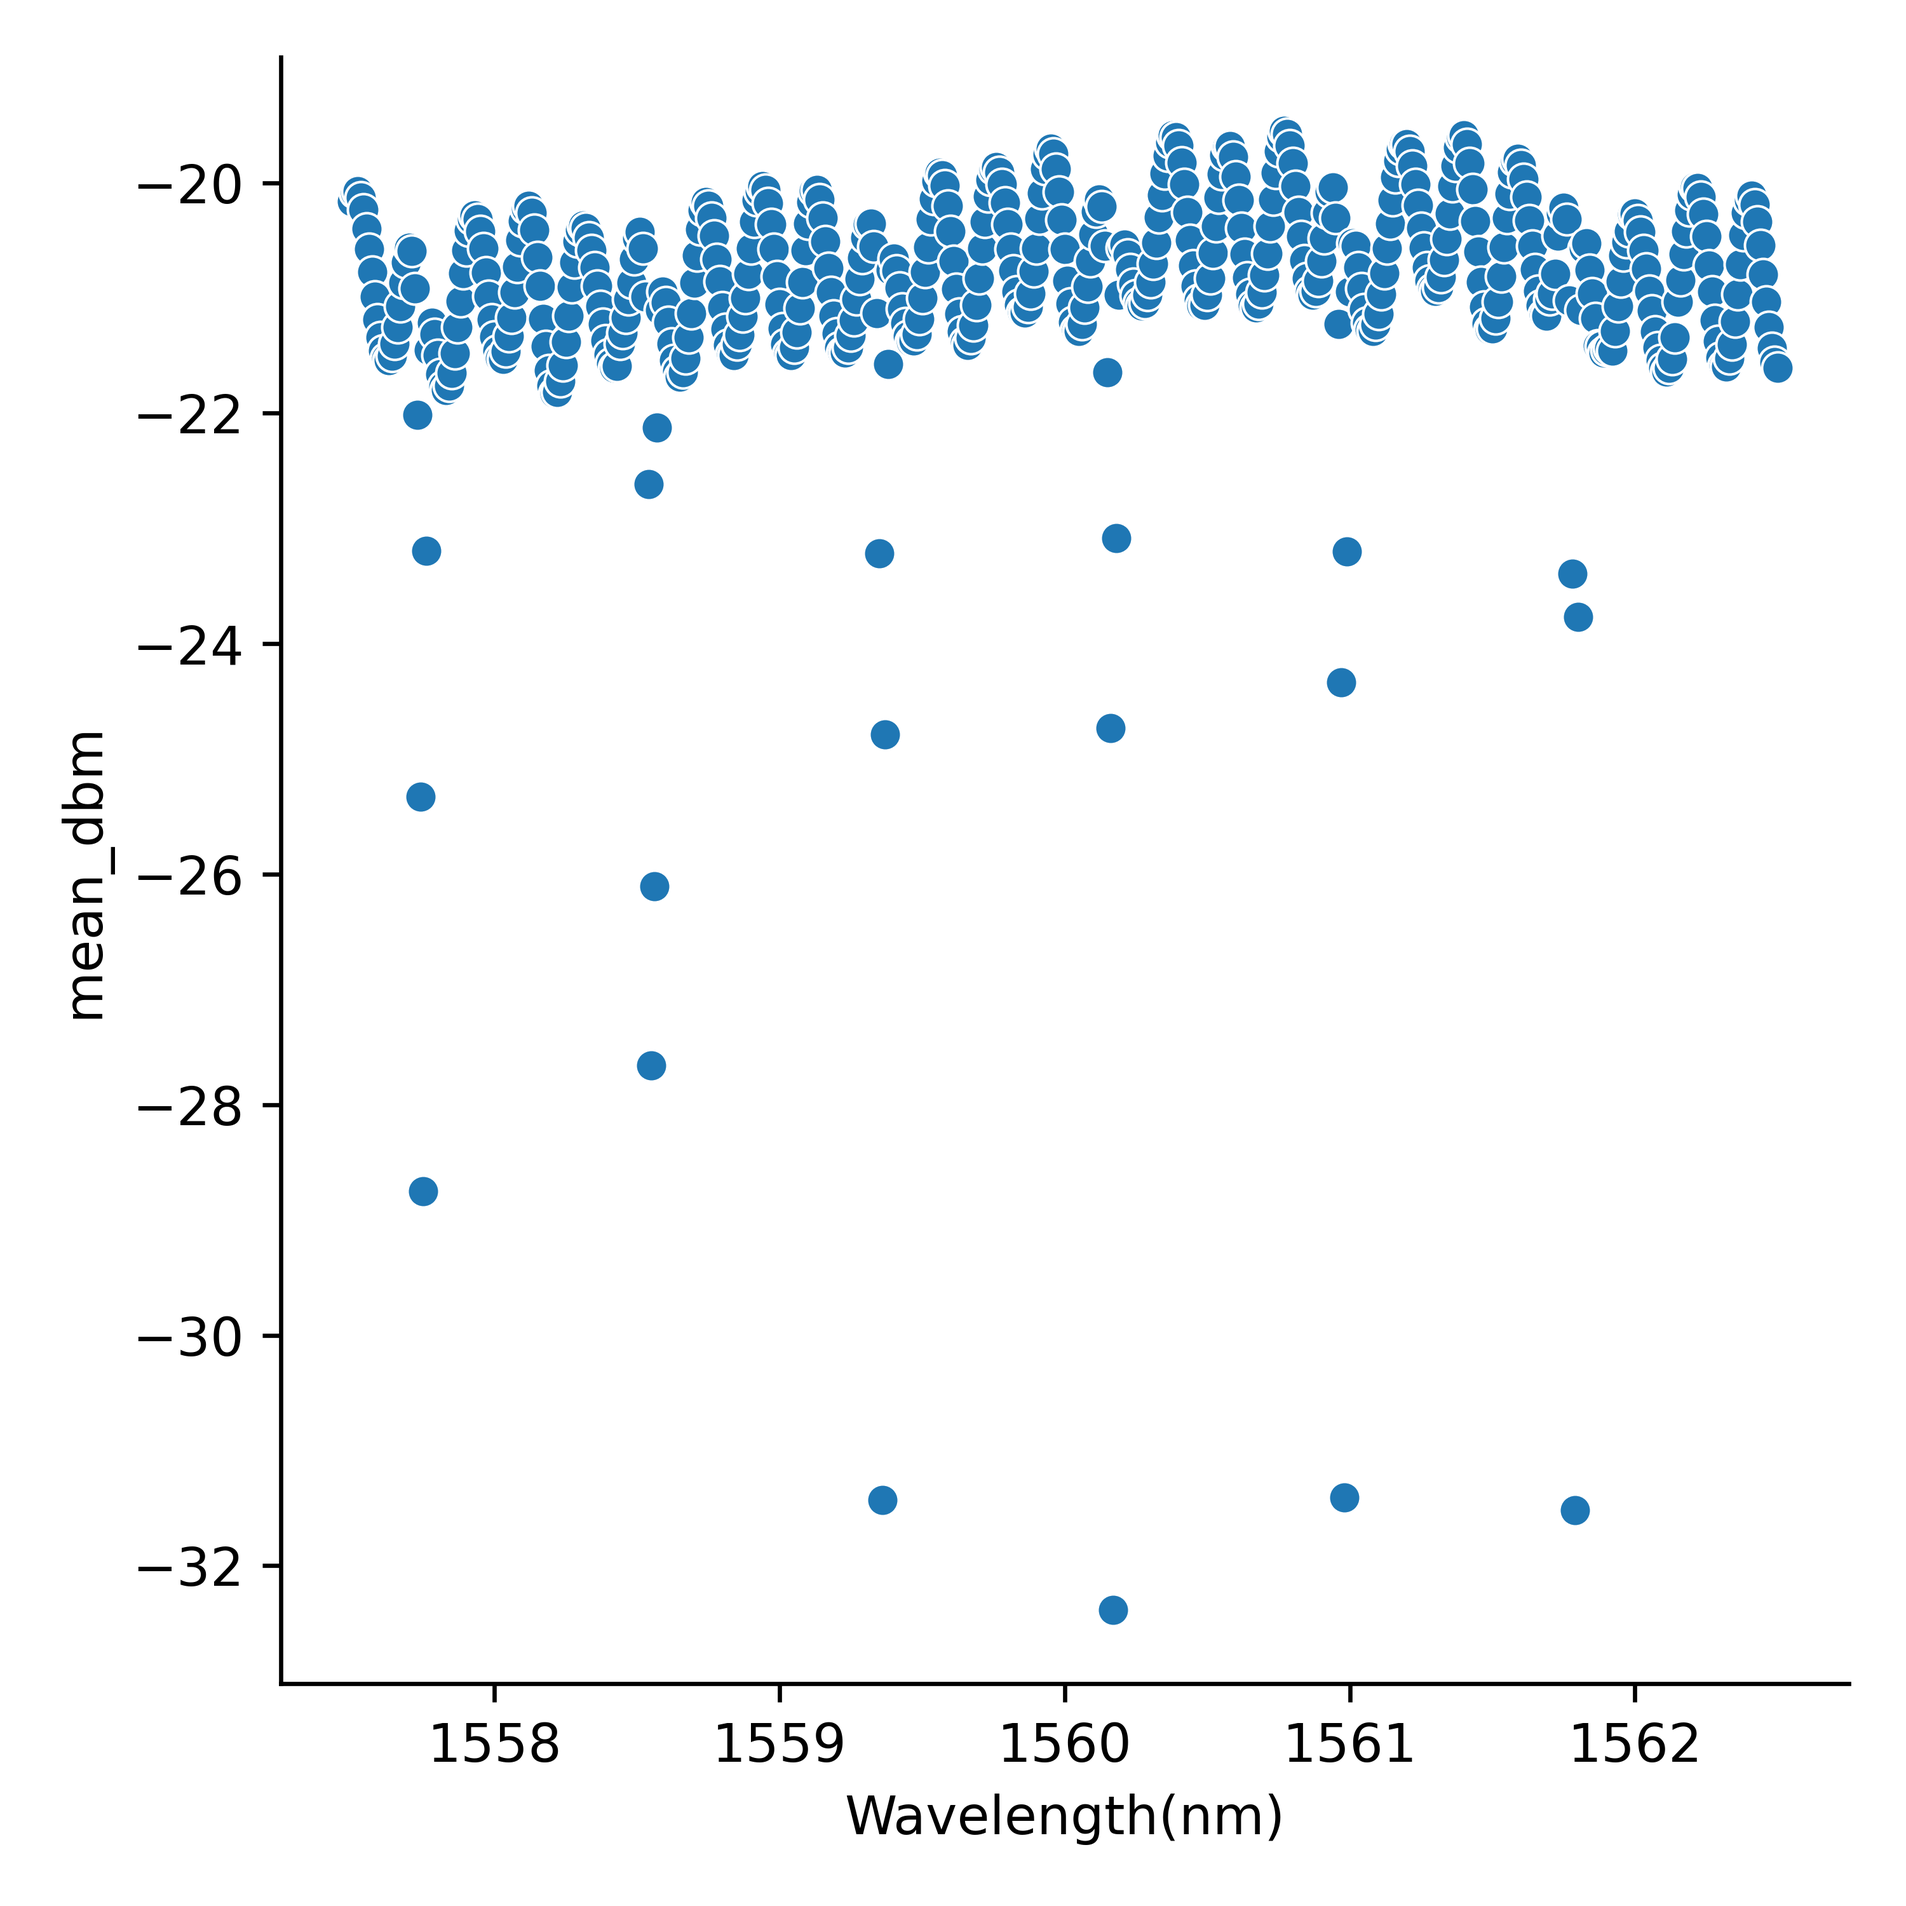
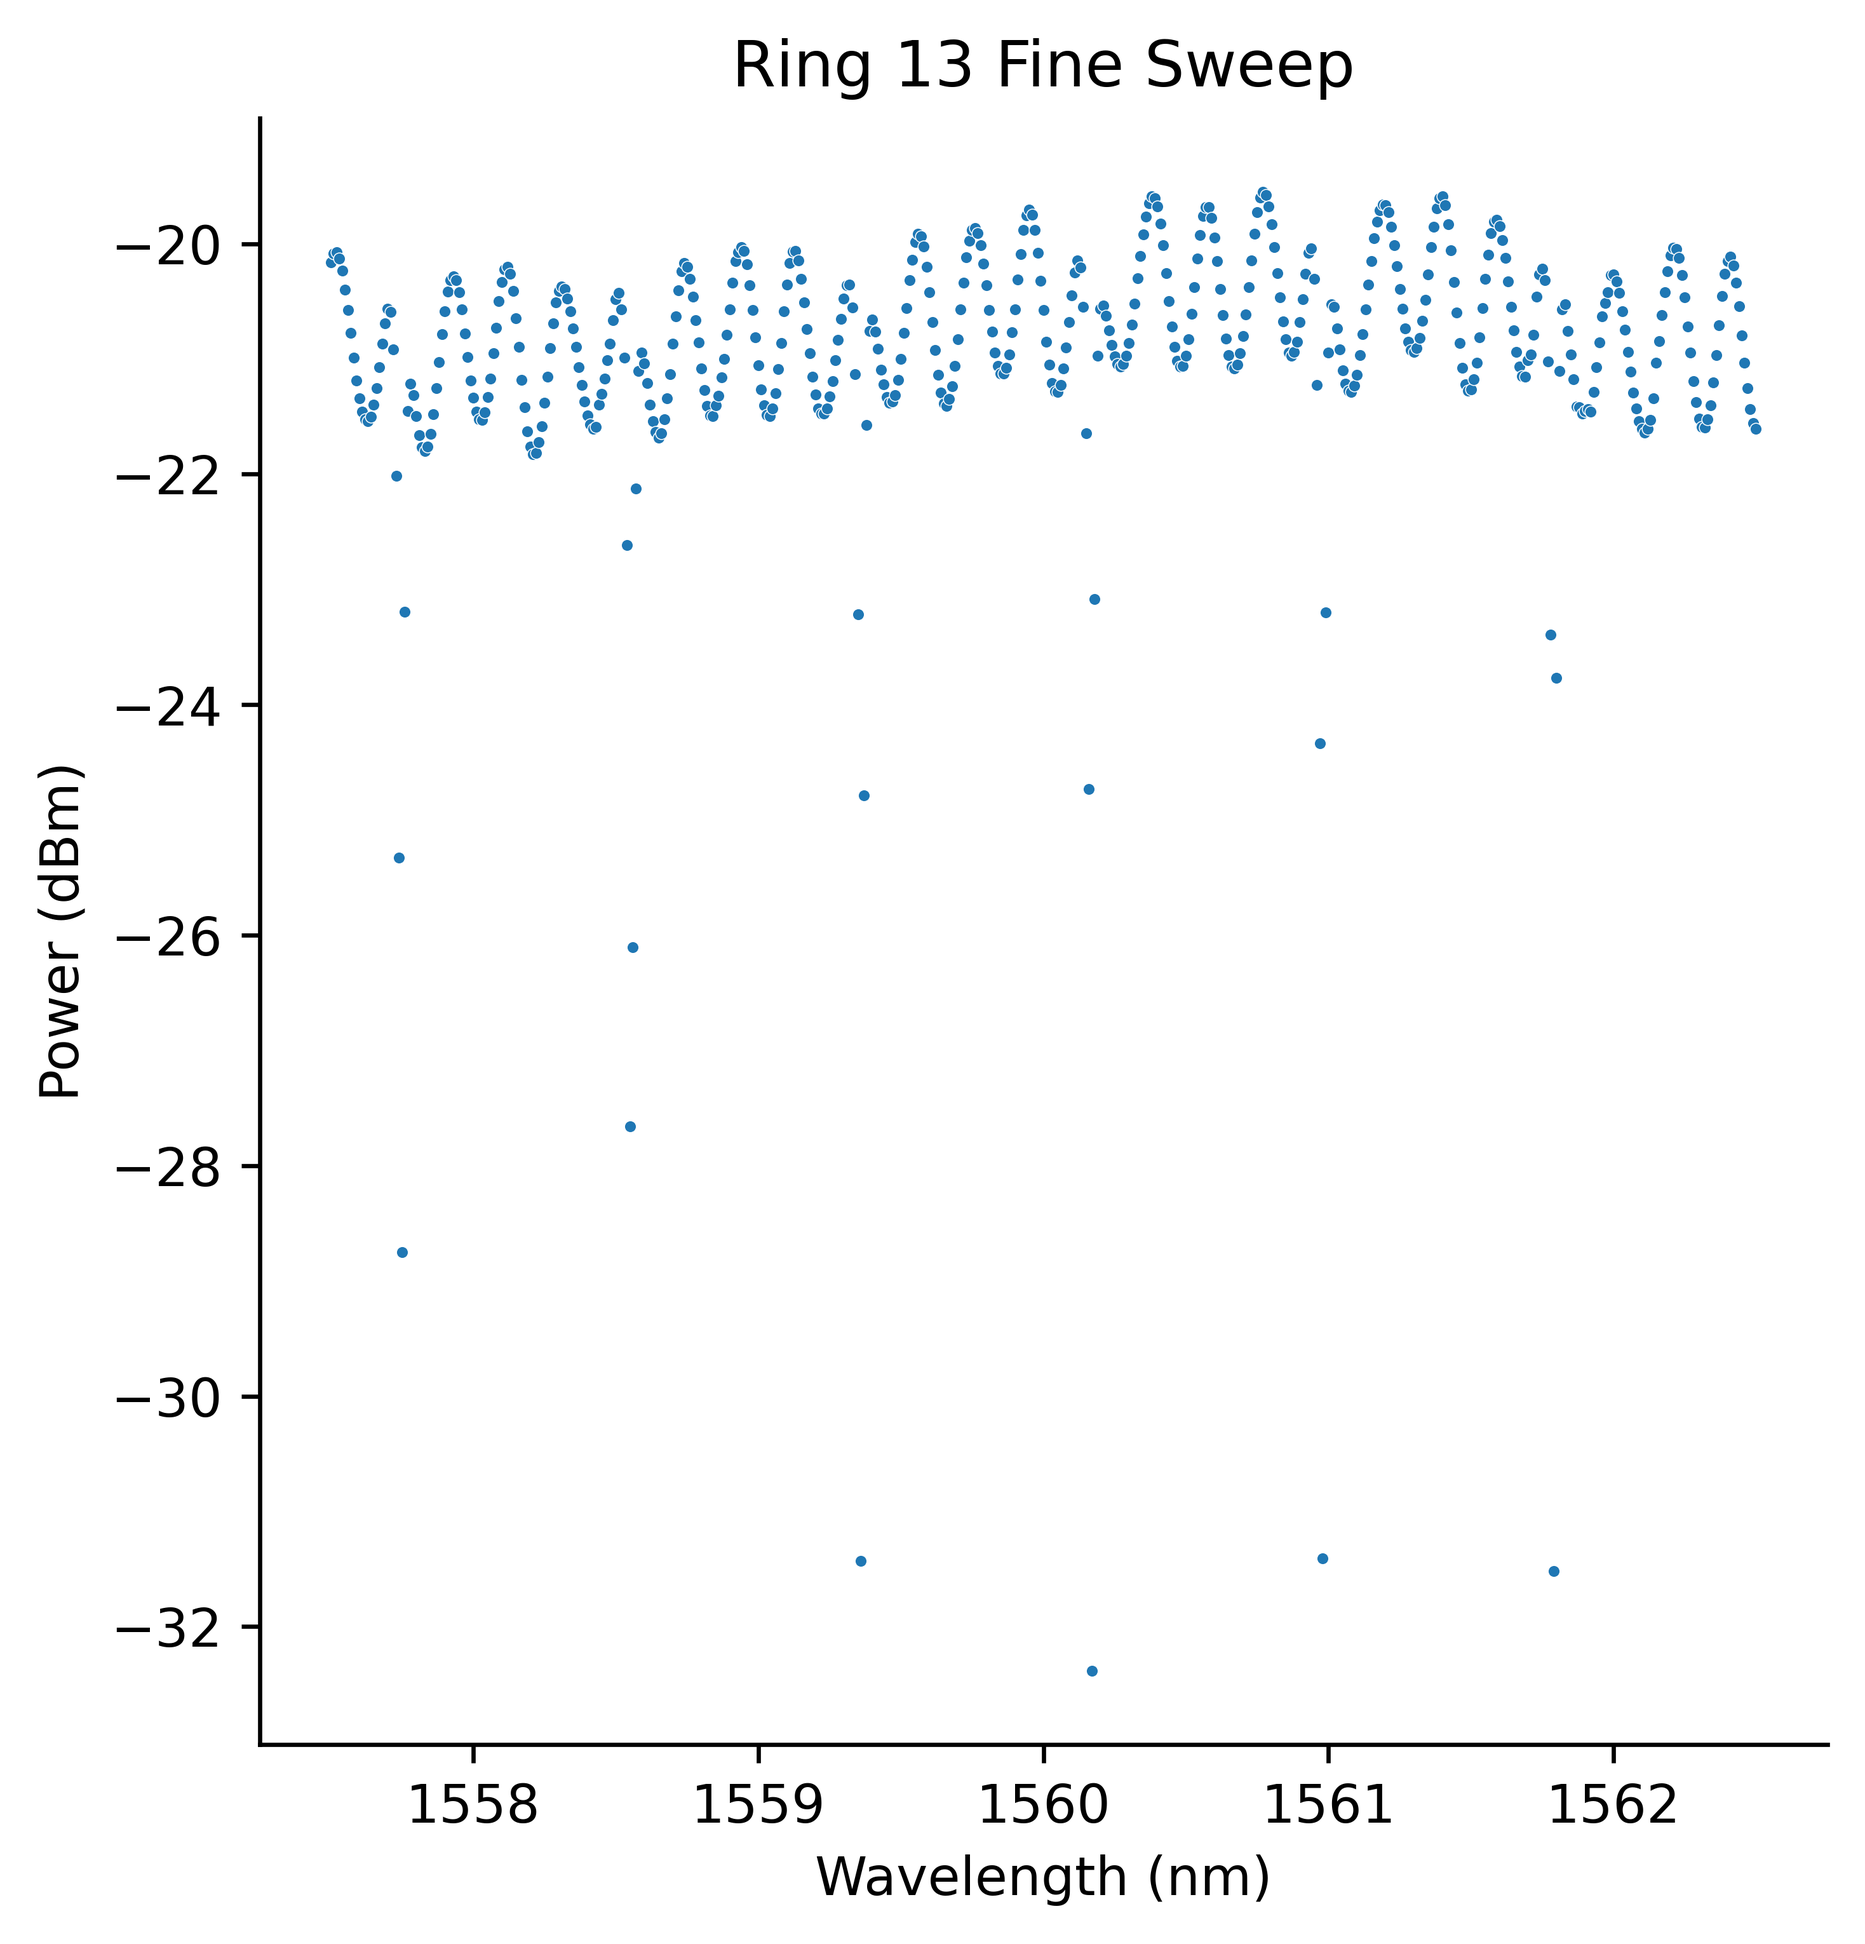
update graph plotting; title

diff --git a/core/analysis.py b/core/analysis.py
@@ -24,7 +24,7 @@ def read_txt(filename: str, headers: bool = True):
     return data
 
 
-def plot_sweep(fname: str, save: bool = True):
+def plot_sweep(fname: str, title: str = "", save: bool = True):
     """
     Function to plot the laser sweeps. Get graph of mean power against wavelength
     """
@@ -36,12 +36,15 @@ def plot_sweep(fname: str, save: bool = True):
     data["variance"] = data.var(axis = 1)
     data["std"]=np.sqrt(data["variance"])
     data["Wavelength(nm)"] = data.index
-    sns_plot = sns.relplot(data=data, x="Wavelength(nm)", y="mean_dbm")
-    fig = sns_plot.fig
+    sns_plot = sns.relplot(data=data, x="Wavelength(nm)", y="mean_dbm", s=5)
+    sns_plot.set_axis_labels("Wavelength (nm)", "Power (dBm)")
+    if title:
+        sns_plot.set(title=title)
 
+    fig = sns_plot.fig
     if save:
         print(fr"Saving figure to {save_path}")
-        fig.savefig(save_path, dpi=600)
+        fig.savefig(save_path, dpi=600,bbox_inches='tight')
 
 
 # %%
